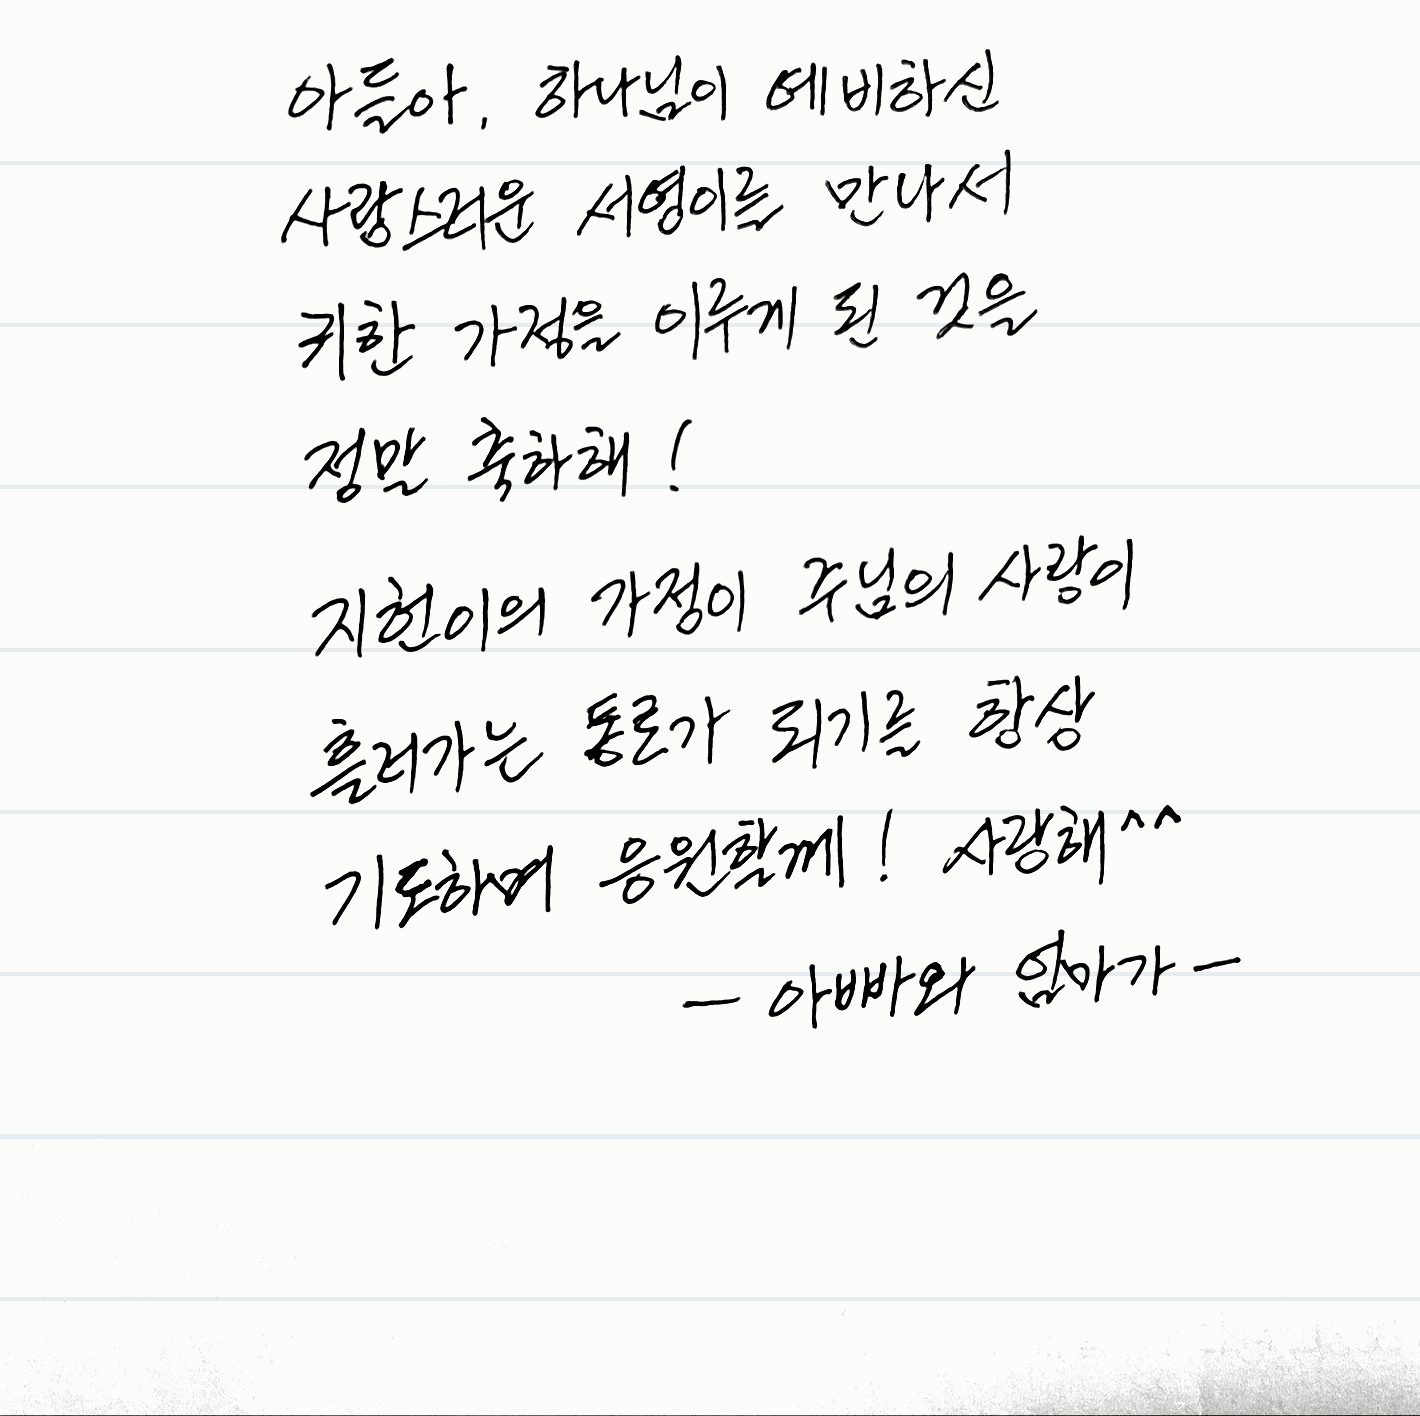
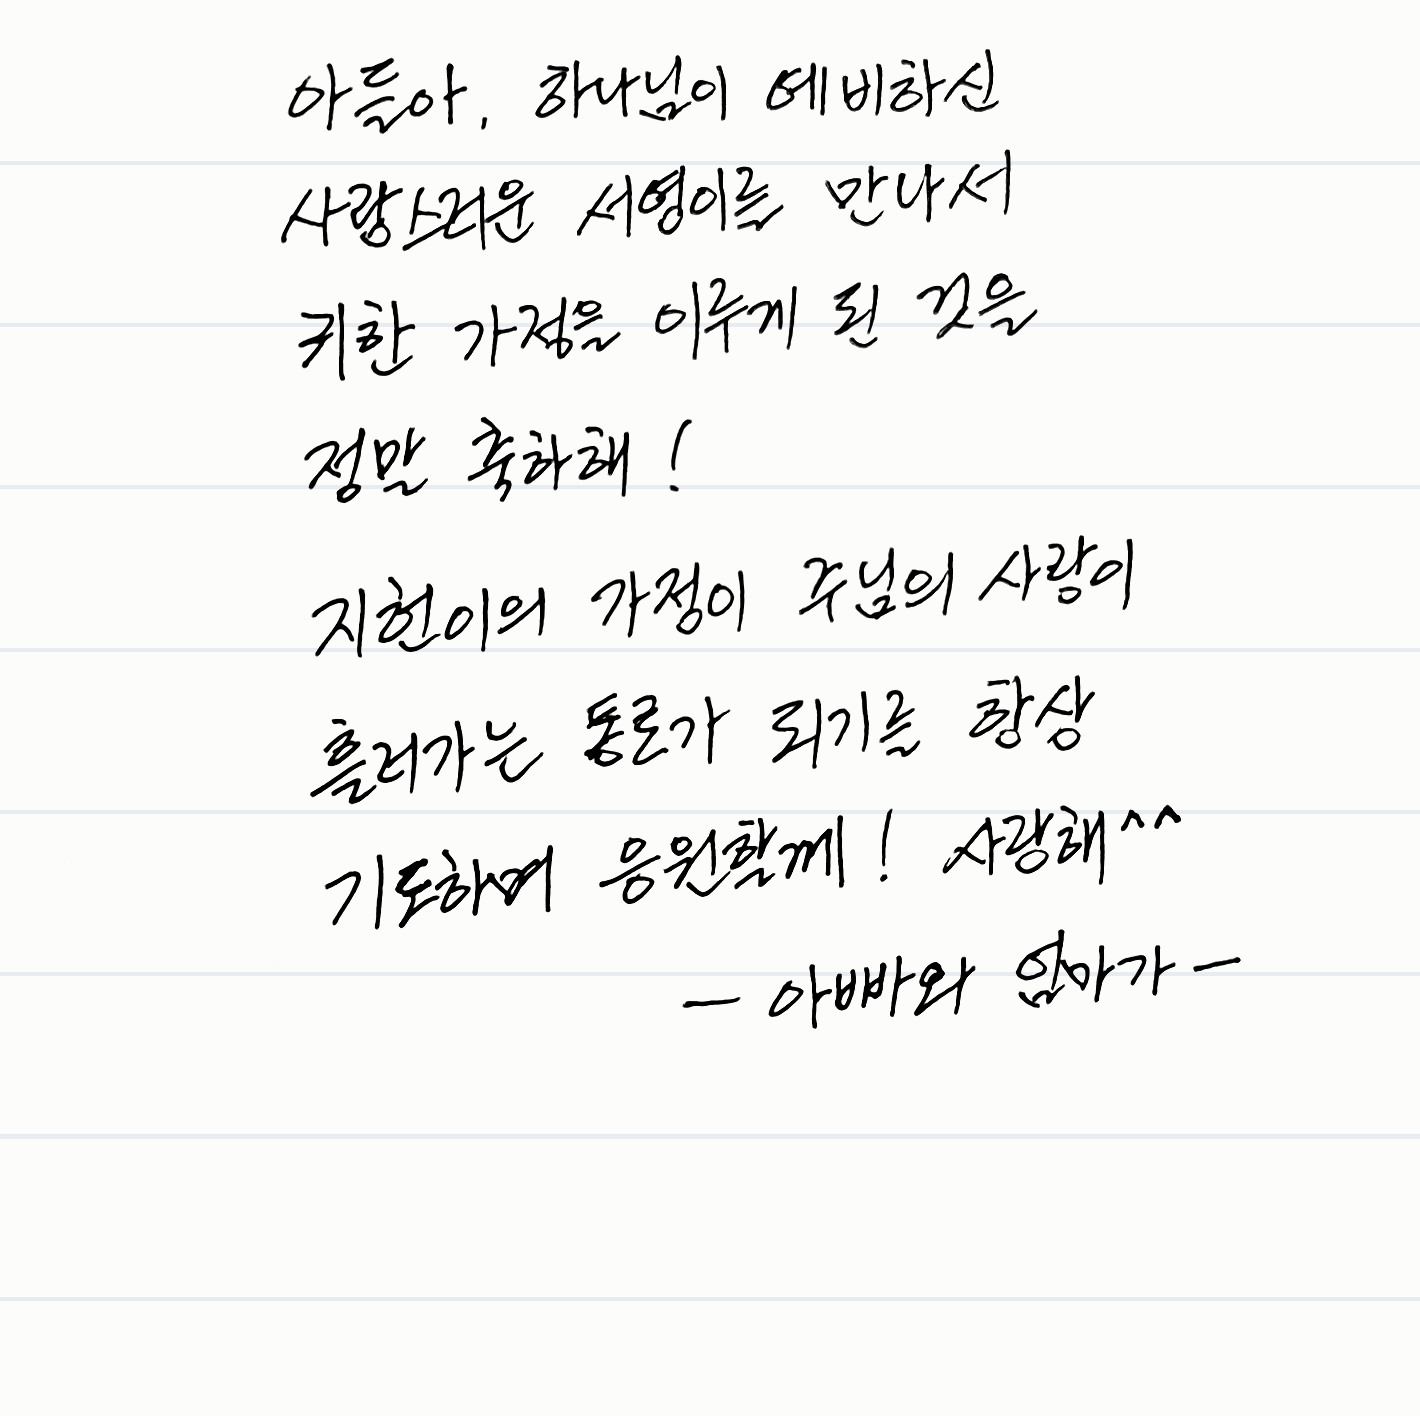
Add files via upload

Changed region(s): [[0.0, 0.9633, 1.0, 1.0]]

diff --git a/index.html b/index.html
@@ -179,7 +179,7 @@
                 </p>
                 <div class="lined-paper scrapbook-paper" style="transform: rotate(1deg);">
                     <div class="tape tape-top"></div>
-                    <img src="images/groom_letter_baked.jpg?v=2" alt="Groom Handwritten Letter" class="handwritten-img" style="clip-path: polygon(0 0, 100% 0, 100% 86%, 48% 86%, 48% 72%, 0 72%); margin-bottom: -14%;">
+                    <img src="images/groom_letter_baked.jpg?v=3" alt="Groom Handwritten Letter" class="handwritten-img" style="margin-bottom: -14%;">
                 </div>
                 <!-- 아기 사진 누끼 모양 스티커 -->
                 <div class="sticker-photo sticker-groom">

diff --git a/ProcessImage.cs b/ProcessImage.cs
@@ -6,48 +6,64 @@ using System.IO;
 
 class Program {
     static void Main(string[] args) {
-        ProcessLetter("images/groom_letter_raw.jpg", "images/groom_letter_baked.jpg", 2.5f, 1.3f);
-        // The bride's letter was likely already processed a bit, but let's apply the CSS rules anyway for consistency
-        ProcessLetter("images/bride_letter_new.jpg", "images/bride_letter_baked.jpg", 2.5f, 1.3f);
+        ProcessLetter("images/groom_letter_raw.jpg", "images/groom_letter_baked.jpg", 2.5f, 1.3f, true);
+        ProcessLetter("images/bride_letter_new.jpg", "images/bride_letter_baked.jpg", 2.5f, 1.3f, false);
     }
 
-    static void ProcessLetter(string inPath, string outPath, float contrast, float brightness) {
+    static void ProcessLetter(string inPath, string outPath, float contrast, float brightness, bool isGroom) {
         if (!File.Exists(inPath)) {
             Console.WriteLine("File not found: " + inPath);
             return;
         }
         
-        using (Bitmap bmp = new Bitmap(inPath))
+        using (Bitmap rawBmp = new Bitmap(inPath))
         {
-            using (Bitmap resultBmp = new Bitmap(bmp.Width, bmp.Height))
+            // Create a copy to allow drawing, just in case the raw format is locked
+            using (Bitmap bmp = new Bitmap(rawBmp.Width, rawBmp.Height, PixelFormat.Format32bppArgb))
             {
-                using (Graphics g = Graphics.FromImage(resultBmp))
-                {
-                    // Create cream paper backdrop
-                    g.Clear(Color.FromArgb(252, 252, 250));
-
-                    // Draw blue lines
-                    float ratio = bmp.Width / 280.0f;
-                    float lineSpacing = 32.0f * ratio;
+                using (Graphics gSrc = Graphics.FromImage(bmp)) {
+                    gSrc.DrawImage(rawBmp, 0, 0, rawBmp.Width, rawBmp.Height);
                     
-                    using (Pen bluePen = new Pen(Color.FromArgb(50, 140, 170, 200), Math.Max(1.0f, ratio * 0.8f)))
-                    {
-                        for (float y = lineSpacing; y < bmp.Height; y += lineSpacing)
-                        {
-                            g.DrawLine(bluePen, 0, y, bmp.Width, y);
-                        }
+                    if (isGroom) {
+                        int w = bmp.Width;
+                        int h = bmp.Height;
+                        // Whitewash bottom left corner to erase shadows
+                        gSrc.FillRectangle(Brushes.White, 0, (int)(0.72f * h), (int)(0.48f * w) + 1, h - (int)(0.72f * h) + 1);
+                        // Whitewash bottom edge to erase shadows
+                        gSrc.FillRectangle(Brushes.White, 0, (int)(0.86f * h), w, h - (int)(0.86f * h) + 1);
                     }
                 }
 
-                MultiplyImage(bmp, resultBmp, contrast, brightness);
-                
-                ImageCodecInfo jpgEncoder = GetEncoder(ImageFormat.Jpeg);
-                Encoder myEncoder = Encoder.Quality;
-                EncoderParameters myEncoderParameters = new EncoderParameters(1);
-                myEncoderParameters.Param[0] = new EncoderParameter(myEncoder, 92L);
+                using (Bitmap resultBmp = new Bitmap(bmp.Width, bmp.Height))
+                {
+                    using (Graphics g = Graphics.FromImage(resultBmp))
+                    {
+                        // Create cream paper backdrop
+                        g.Clear(Color.FromArgb(252, 252, 250));
 
-                resultBmp.Save(outPath, jpgEncoder, myEncoderParameters);
-                Console.WriteLine("Baked " + outPath);
+                        // Draw blue lines
+                        float ratio = bmp.Width / 280.0f;
+                        float lineSpacing = 32.0f * ratio;
+                        
+                        using (Pen bluePen = new Pen(Color.FromArgb(50, 140, 170, 200), Math.Max(1.0f, ratio * 0.8f)))
+                        {
+                            for (float y = lineSpacing; y < bmp.Height; y += lineSpacing)
+                            {
+                                    g.DrawLine(bluePen, 0, y, bmp.Width, y);
+                            }
+                        }
+                    }
+
+                    MultiplyImage(bmp, resultBmp, contrast, brightness);
+                    
+                    ImageCodecInfo jpgEncoder = GetEncoder(ImageFormat.Jpeg);
+                    Encoder myEncoder = Encoder.Quality;
+                    EncoderParameters myEncoderParameters = new EncoderParameters(1);
+                    myEncoderParameters.Param[0] = new EncoderParameter(myEncoder, 92L);
+
+                    resultBmp.Save(outPath, jpgEncoder, myEncoderParameters);
+                    Console.WriteLine("Baked " + outPath);
+                }
             }
         }
     }
